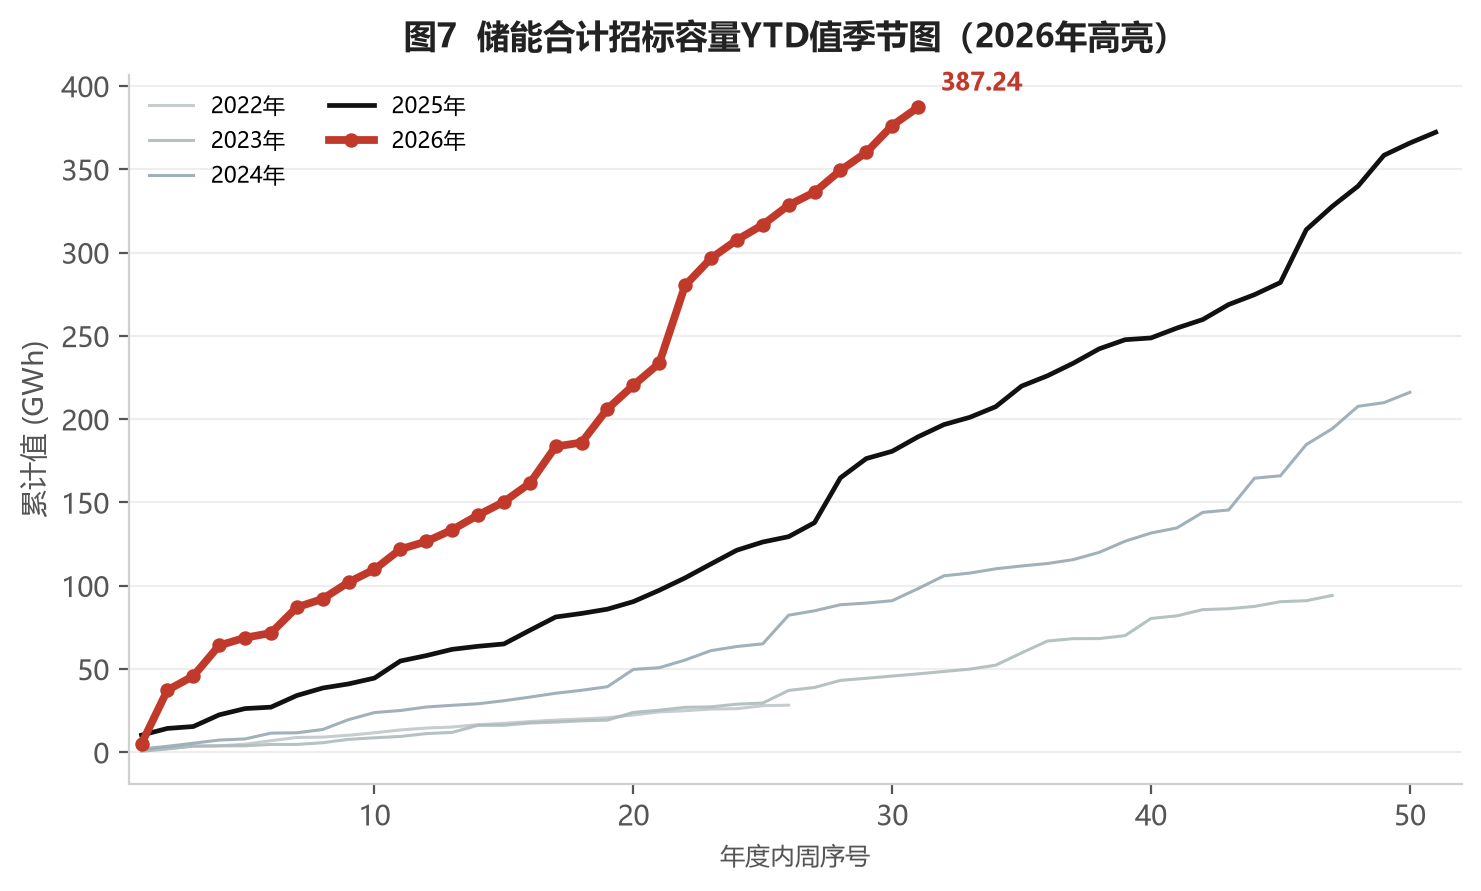
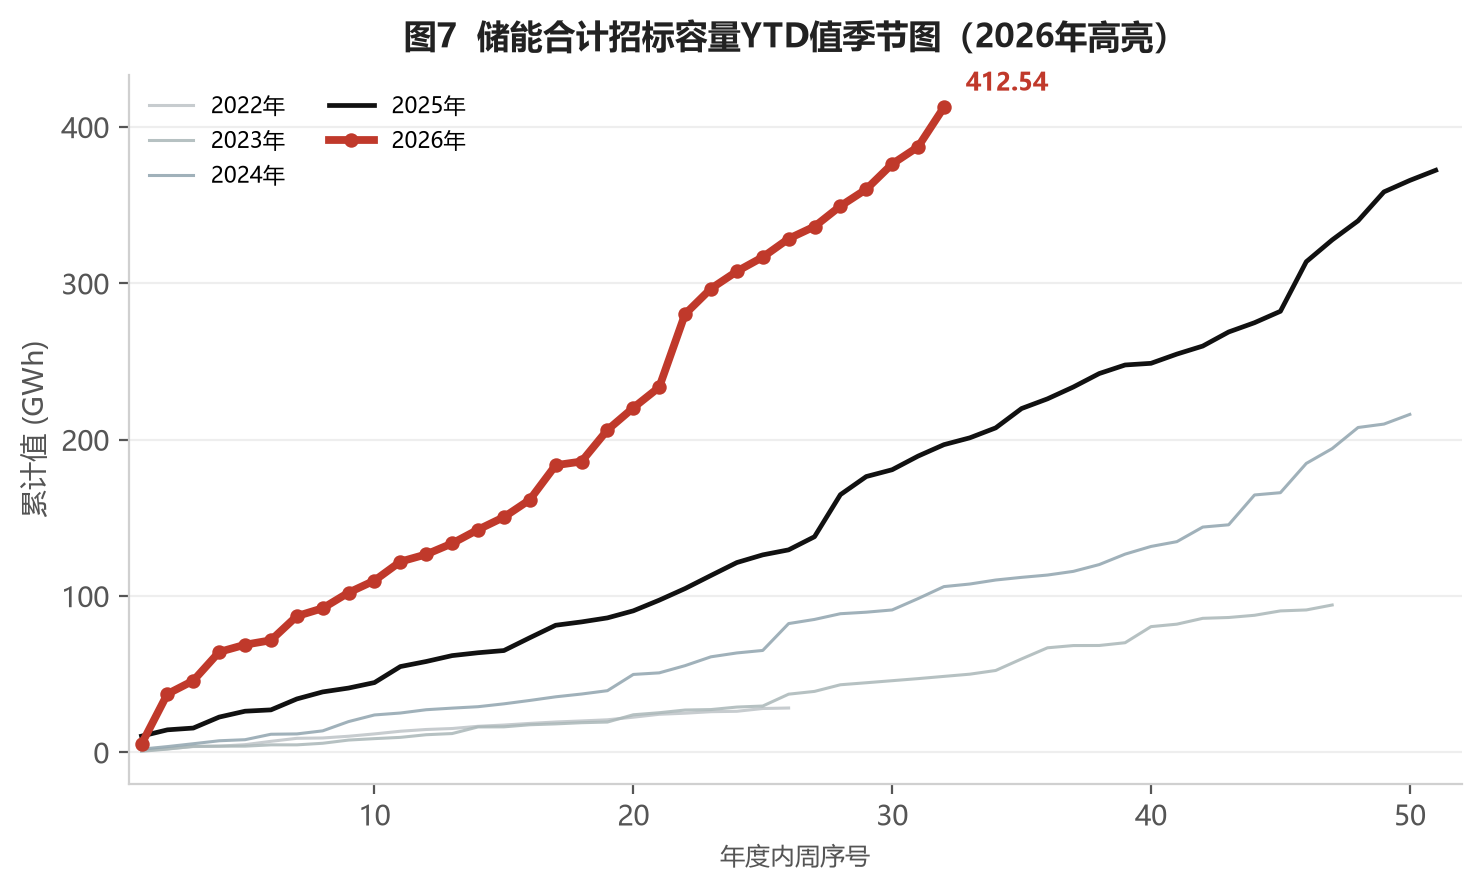
update weekly report 2026-08-16

diff --git a/docs/index.html b/docs/index.html
@@ -3,7 +3,7 @@
 <head>
 <meta charset="UTF-8" />
 <meta name="viewport" content="width=device-width, initial-scale=1.0" />
-<title>储能行业周报 · 储能招中标板块（2026-08-07）</title>
+<title>储能行业周报 · 储能招中标板块（2026-08-14）</title>
 <meta name="description" content="储能行业周度招中标数据报告：周度规模、累计规模、EPC/系统分项、中标价格走势。" />
 <style>
 :root {
@@ -52,13 +52,13 @@ footer{text-align:center;color:var(--muted);font-size:12px;padding:26px 0;
 <header class="hero">
   <div class="container">
     <h1>储能行业周报 · 储能招中标板块</h1>
-    <div class="meta">数据周期：2022-07-01 ~ 2026-08-07 · 本周：2026-08-01 至 2026-08-07（2026年第31周）· 共 205 周数据 · 生成于 2026-08-11 11:35:44</div>
+    <div class="meta">数据周期：2022-07-01 ~ 2026-08-14 · 本周：2026-08-08 至 2026-08-14（2026年第32周）· 共 206 周数据 · 生成于 2026-08-16 19:13:10</div>
   </div>
 </header>
 <div class="container">
     <section class="sec">
       <h2>一、中国|储能周度招中标</h2>
-      <div class="desc"><p class="d">本周：2026-08-01 至 2026-08-07</p><p class="d">招标项目 <b>38</b> 个，规模合计 <b>3.73</b>GW/<b>10.96</b>GWh，环比 <span class="chg down">-25.5%</span>/<span class="chg down">-32.1%</span>，同比 <span class="chg up">+28.2%</span>/<span class="chg up">+25.9%</span>。</p><p class="d">中标项目 <b>40</b> 个，规模合计 <b>3.19</b>GW/<b>8.86</b>GWh，环比 <span class="chg up">+4.4%</span>/<span class="chg down">-1.6%</span>，同比 <span class="chg down">-77.1%</span>/<span class="chg down">-71.4%</span>。</p></div>
+      <div class="desc"><p class="d">本周：2026-08-08 至 2026-08-14</p><p class="d">招标项目 <b>0</b> 个，规模合计 <b>7.74</b>GW/<b>25.30</b>GWh，环比 <span class="chg up">+107.3%</span>/<span class="chg up">+130.9%</span>，同比 <span class="chg up">+174.0%</span>/<span class="chg up">+245.2%</span>。</p><p class="d">中标项目 <b>0</b> 个，规模合计 <b>7.98</b>GW/<b>20.86</b>GWh，环比 <span class="chg up">+150.3%</span>/<span class="chg up">+135.5%</span>，同比 <span class="chg up">+198.6%</span>/<span class="chg up">+202.3%</span>。</p></div>
       <div class="charts">
       <figure class="fig"><img src="assets/images/fig_01.png" alt="图1：储能合计招标功率当周值季节图" loading="lazy" /></figure>
       <figure class="fig"><img src="assets/images/fig_02.png" alt="图2：储能合计中标功率当周值季节图" loading="lazy" /></figure>
@@ -69,7 +69,7 @@ footer{text-align:center;color:var(--muted);font-size:12px;padding:26px 0;
 
     <section class="sec">
       <h2>二、中国|储能周度招中标（累计）</h2>
-      <div class="desc"><p class="d">截至 2026-08-07</p><p class="d">招标累计规模 <b>113.79</b>GW/<b>387.24</b>GWh，环比 <span class="chg up">+3.4%</span>/<span class="chg up">+2.9%</span>，同比 <span class="chg up">+95.9%</span>/<span class="chg up">+104.4%</span>。</p><p class="d">中标累计规模 <b>123.59</b>GW/<b>470.92</b>GWh，环比 <span class="chg up">+2.6%</span>/<span class="chg up">+1.9%</span>，同比 <span class="chg up">+35.6%</span>/<span class="chg up">+38.5%</span>。</p></div>
+      <div class="desc"><p class="d">截至 2026-08-14</p><p class="d">招标累计规模 <b>121.53</b>GW/<b>412.54</b>GWh，环比 <span class="chg up">+6.8%</span>/<span class="chg up">+6.5%</span>，同比 <span class="chg up">+99.6%</span>/<span class="chg up">+109.7%</span>。</p><p class="d">中标累计规模 <b>131.57</b>GW/<b>491.79</b>GWh，环比 <span class="chg up">+6.5%</span>/<span class="chg up">+4.4%</span>，同比 <span class="chg up">+40.3%</span>/<span class="chg up">+41.8%</span>。</p></div>
       <div class="charts">
       <figure class="fig"><img src="assets/images/fig_05.png" alt="图5：储能合计招标功率YTD值季节图" loading="lazy" /></figure>
       <figure class="fig"><img src="assets/images/fig_06.png" alt="图6：储能合计中标功率YTD值季节图" loading="lazy" /></figure>
@@ -80,7 +80,7 @@ footer{text-align:center;color:var(--muted);font-size:12px;padding:26px 0;
 
     <section class="sec">
       <h2>三、储能EPC招中标规模（周度）</h2>
-      <div class="desc"><p class="d">本周：2026-08-01 至 2026-08-07</p><p class="d">储能EPC<b>招标</b>：<b>3.60</b>GW/<b>10.49</b>GWh，环比 <span class="chg down">-16.4%</span>/<span class="chg down">-10.2%</span>，同比 <span class="chg up">+83.7%</span>/<span class="chg up">+102.0%</span>；本年累计<b>招标</b> <b>94.45</b>GW/<b>253.39</b>GWh，同比 <span class="chg up">+115.1%</span>/<span class="chg up">+94.5%</span>。</p><p class="d">储能EPC<b>中标</b>：<b>2.88</b>GW/<b>7.56</b>GWh，环比 <span class="chg up">+3.4%</span>/<span class="chg down">-2.5%</span>，同比 <span class="chg up">+26.5%</span>/<span class="chg up">+32.4%</span>；本年累计<b>中标</b> <b>100.69</b>GW/<b>291.32</b>GWh，同比 <span class="chg up">+76.5%</span>/<span class="chg up">+83.1%</span>。</p></div>
+      <div class="desc"><p class="d">本周：2026-08-08 至 2026-08-14</p><p class="d">储能EPC<b>招标</b>：<b>6.29</b>GW/<b>19.72</b>GWh，环比 <span class="chg up">+74.4%</span>/<span class="chg up">+88.0%</span>，同比 <span class="chg up">+198.3%</span>/<span class="chg up">+304.2%</span>；本年累计<b>招标</b> <b>100.73</b>GW/<b>273.10</b>GWh，同比 <span class="chg up">+118.9%</span>/<span class="chg up">+102.1%</span>。</p><p class="d">储能EPC<b>中标</b>：<b>6.21</b>GW/<b>17.19</b>GWh，环比 <span class="chg up">+116.0%</span>/<span class="chg up">+127.4%</span>，同比 <span class="chg up">+217.3%</span>/<span class="chg up">+241.9%</span>；本年累计<b>中标</b> <b>106.90</b>GW/<b>308.51</b>GWh，同比 <span class="chg up">+81.2%</span>/<span class="chg up">+87.9%</span>。</p></div>
       <div class="charts cols4">
       <figure class="fig"><img src="assets/images/fig_09.png" alt="图9：储能EPC招标功率当周值季节图" loading="lazy" /></figure>
       <figure class="fig"><img src="assets/images/fig_10.png" alt="图10：储能EPC招标功率YTD值季节图" loading="lazy" /></figure>
@@ -95,7 +95,7 @@ footer{text-align:center;color:var(--muted);font-size:12px;padding:26px 0;
 
     <section class="sec">
       <h2>四、储能系统招中标规模（周度）</h2>
-      <div class="desc"><p class="d">本周：2026-08-01 至 2026-08-07</p><p class="d">储能系统<b>招标</b>：<b>0.13</b>GW/<b>0.47</b>GWh，环比 <span class="chg down">-81.7%</span>/<span class="chg down">-89.5%</span>，同比 <span class="chg down">-86.5%</span>/<span class="chg down">-86.6%</span>；本年累计<b>招标</b> <b>16.13</b>GW/<b>100.83</b>GWh，同比 <span class="chg up">+11.4%</span>/<span class="chg up">+70.4%</span>。</p><p class="d">储能系统<b>中标</b>：<b>0.31</b>GW/<b>1.30</b>GWh，环比 <span class="chg up">+15.2%</span>/<span class="chg up">+4.0%</span>，同比 <span class="chg down">-97.3%</span>/<span class="chg down">-94.8%</span>；本年累计<b>中标</b> <b>20.17</b>GW/<b>134.47</b>GWh，同比 <span class="chg down">-41.0%</span>/<span class="chg down">-32.7%</span>。</p></div>
+      <div class="desc"><p class="d">本周：2026-08-08 至 2026-08-14</p><p class="d">储能系统<b>招标</b>：<b>1.45</b>GW/<b>5.58</b>GWh，环比 <span class="chg up">+1033.3%</span>/<span class="chg up">+1091.4%</span>，同比 <span class="chg up">+102.7%</span>/<span class="chg up">+127.8%</span>；本年累计<b>招标</b> <b>17.59</b>GW/<b>106.41</b>GWh，同比 <span class="chg up">+15.7%</span>/<span class="chg up">+72.7%</span>。</p><p class="d">储能系统<b>中标</b>：<b>1.76</b>GW/<b>3.67</b>GWh，环比 <span class="chg up">+468.5%</span>/<span class="chg up">+182.2%</span>，同比 <span class="chg up">+147.2%</span>/<span class="chg up">+96.0%</span>；本年累计<b>中标</b> <b>21.93</b>GW/<b>138.14</b>GWh，同比 <span class="chg down">-37.2%</span>/<span class="chg down">-31.5%</span>。</p></div>
       <div class="charts cols4">
       <figure class="fig"><img src="assets/images/fig_17.png" alt="图17：储能系统招标功率当周值季节图" loading="lazy" /></figure>
       <figure class="fig"><img src="assets/images/fig_18.png" alt="图18：储能系统招标功率YTD值季节图" loading="lazy" /></figure>
@@ -110,7 +110,7 @@ footer{text-align:center;color:var(--muted);font-size:12px;padding:26px 0;
 
     <section class="sec">
       <h2>五、储能价格（周度）</h2>
-      <div class="desc"><p class="d">本周：2026-08-01 至 2026-08-07</p><p class="d">储能EPC中标报价区间：【<b>0.6491</b>-<b>1.7441</b>】元/Wh，储能EPC中标均价 <b>1.0765</b> 元/Wh（环比 <span class="chg up">+7.3%</span>，同比 <span class="chg up">+10.6%</span>）。</p><p class="d">储能系统中标报价区间：【<b>0.5250</b>-<b>0.8696</b>】元/Wh，储能系统中标均价 <b>0.6311</b> 元/Wh（环比 <span class="chg up">+6.0%</span>，同比 <span class="chg up">+29.6%</span>）。</p></div>
+      <div class="desc"><p class="d">本周：2026-08-08 至 2026-08-14</p><p class="d">储能EPC中标报价区间：【<b>0.6491</b>-<b>1.7577</b>】元/Wh，储能EPC中标均价 <b>1.0809</b> 元/Wh（环比 <span class="chg up">+0.4%</span>，同比 <span class="chg up">+9.6%</span>）。</p><p class="d">储能系统中标报价区间：【<b>0.5250</b>-<b>0.6199</b>】元/Wh，储能系统中标均价 <b>0.5893</b> 元/Wh（环比 <span class="chg down">-6.6%</span>，同比 <span class="chg up">+0.7%</span>）。</p></div>
       <div class="charts">
       <figure class="fig"><img src="assets/images/fig_25.png" alt="图25：储能系统中标均价季节图" loading="lazy" /></figure>
       <figure class="fig"><img src="assets/images/fig_26.png" alt="图26：储能EPC中标均价季节图" loading="lazy" /></figure>
